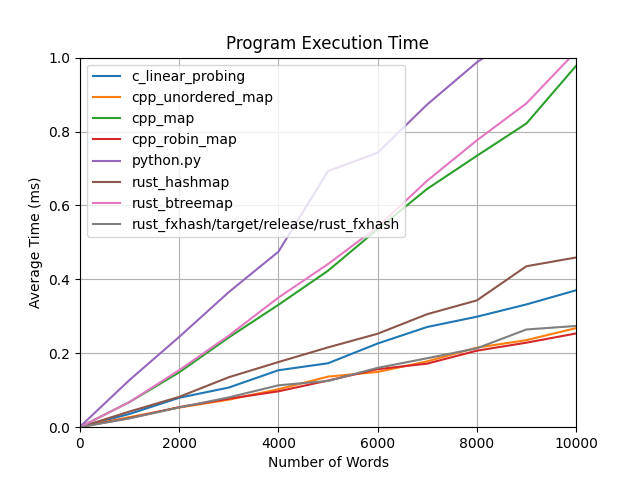
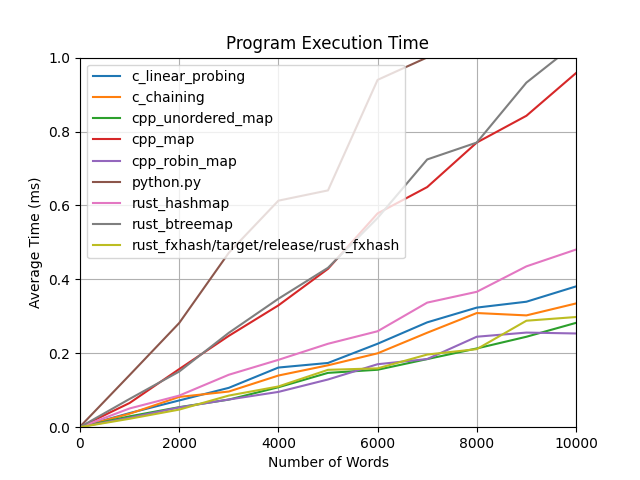
Add chaining test in C

diff --git a/c_chaining.c b/c_chaining.c
@@ -1,0 +1,226 @@
+#define _POSIX_C_SOURCE 200809L // For getline
+#include <stdio.h>
+#include <stdlib.h>
+#include <string.h>
+#include <time.h>
+
+// http://www.cse.yorku.ca/~oz/hash.html
+unsigned long djb2(const unsigned char *str)
+{
+	unsigned long hash = 5381;
+	int c;
+
+	while (c = *str++)
+		hash = ((hash << 5) + hash) + c; /* hash * 33 + c */
+
+	return hash;
+}
+
+typedef struct Entry Entry;
+
+struct Entry {
+	const char* k;
+	int v;
+	struct Entry* next;
+};
+
+typedef struct {
+	Entry* entries;
+	size_t size;
+	size_t count;
+} HashMap;
+
+HashMap HashMap_new(size_t size);
+Entry* HashMap_get(HashMap* hm, const char* k);
+void HashMap_rehash(HashMap* hm);
+void HashMap_insert(HashMap* hm, const char* k, int v);
+Entry* HashMap_get_or_default(HashMap* hm, const char* k, int d);
+
+HashMap HashMap_new(size_t size) {
+	HashMap hm = {0};
+	hm.entries = calloc(size, sizeof(Entry));
+	hm.size = size;
+	return hm;
+}
+
+Entry* HashMap_get(HashMap* hm, const char* k) {
+	if (hm->entries == NULL) {
+		return NULL;
+	}
+
+	size_t h = djb2(k) % hm->size;
+	Entry* e = &hm->entries[h];
+	while (e != NULL && strcmp(e->k, k) != 0) {
+		e = e->next;
+	}
+
+	return e;
+}
+
+#define DEFAULT_SIZE 16
+#define LOAD_FACTOR 0.75f
+
+void HashMap_rehash(HashMap* hm) {
+	//printf("Rehash %ld %ld %f\n", hm->count, hm->size, (float)hm->count / hm->size);
+
+	HashMap rehash = HashMap_new(hm->size * 2);
+
+	for (int i = 0; i < hm->size; i++) {
+		Entry* e = &hm->entries[i];
+		while (e != NULL) {
+			if (e->k != NULL) {
+				HashMap_insert(&rehash, e->k, e->v);
+			}
+			e = e->next;
+		}
+	}
+
+	free(hm->entries);
+	*hm = rehash;
+}
+
+void HashMap_insert(HashMap* hm, const char* k, int v) {
+	//printf("Insert %s %d\n", k, v);
+
+	if (hm->entries == NULL) {
+		hm->entries = calloc(DEFAULT_SIZE, sizeof(Entry));
+		hm->size = DEFAULT_SIZE;
+		hm->count = 0;
+	}
+
+	if (k == NULL) {
+		printf("Null key\n");
+		return;
+	}
+
+	if ((float)hm->count / hm->size > LOAD_FACTOR) {
+		HashMap_rehash(hm);
+	}
+
+	size_t h = djb2(k) % hm->size;
+	Entry* e = &hm->entries[h];
+	if (e->k != NULL) {
+		while (1) {
+			if (strcmp(e->k, k) == 0) {
+				return; // No duplicates
+			}
+			if (e->next == NULL) {
+				e->next = calloc(1, sizeof(Entry));
+				e = e->next;
+				break;
+			}
+			e = e->next;
+		}
+	}
+
+	e->k = k;
+	e->v = v;
+
+	hm->count++;
+}
+
+Entry* HashMap_get_or_default(HashMap* hm, const char* k, int d) {
+	//printf("Insert %s %d\n", k, v);
+
+	if (hm->entries == NULL) {
+		hm->entries = calloc(DEFAULT_SIZE, sizeof(Entry));
+		hm->size = DEFAULT_SIZE;
+		hm->count = 0;
+	}
+
+	if (k == NULL) {
+		printf("Null key\n");
+		return NULL;
+	}
+
+	if ((float)hm->count / hm->size > LOAD_FACTOR) {
+		HashMap_rehash(hm);
+	}
+
+	size_t h = djb2(k) % hm->size;
+	Entry* e = &hm->entries[h];
+	if (e->k != NULL) {
+		while (1) {
+			if (strcmp(e->k, k) == 0) {
+				return e;
+			}
+			if (e->next == NULL) {
+				e->next = calloc(1, sizeof(Entry));
+				e = e->next;
+				break;
+			}
+			e = e->next;
+		}
+	}
+
+	e->k = k;
+	e->v = d;
+
+	hm->count++;
+
+	return e;
+}
+
+// Make me a function to get a list of lines from a file
+// Copilot generated this
+char** getLinesFromFile(const char* filename, size_t* lineCount) {
+	FILE* file = fopen(filename, "r");
+	if (file == NULL) {
+		perror("fopen");
+		exit(EXIT_FAILURE);
+	}
+
+	char** lines = NULL;
+	char* line = NULL;
+	size_t n = 0;
+	size_t count = 0;
+
+	while (getline(&line, &n, file) != -1) {
+		lines = realloc(lines, (count + 1) * sizeof(char*));
+		*strchr(line, '\n') = '\0'; // Remove newline
+		lines[count] = strdup(line);
+		count++;
+	}
+
+	free(line);
+	fclose(file);
+
+	*lineCount = count;
+	return lines;
+}
+
+int main() {
+	size_t lineCount;
+	char** lines = getLinesFromFile("words.txt", &lineCount);
+
+	clock_t start = clock();
+
+	HashMap freq = {0};
+
+	for (int i = 0; i < lineCount; i++) {
+		char* line = lines[i];
+
+		Entry* e = HashMap_get_or_default(&freq, line, 0);
+		e->v++;
+	}
+
+	clock_t end = clock();
+	double cpu_time_used = ((double) (end - start)) / CLOCKS_PER_SEC;
+	printf("%f\n", cpu_time_used);
+
+	// for (int i = 0; i < freq.size; i++) {
+	// 	Entry* e = &freq.entries[i];
+	// 	while (e != NULL) {
+	// 		if (e->k != NULL) {
+	// 			printf("%s %d\n", e->k, e->v);
+	// 			free(e->k);
+	// 		}
+	// 		e = e->next;
+	// 	}
+	// }
+
+	free(lines);
+	free(freq.entries);
+
+	return 0;
+}

diff --git a/runner.py b/runner.py
@@ -33,6 +33,7 @@ def testprog(program_name):
 
 times = {
 	"c_linear_probing": [],
+	"c_chaining": [],
 	"cpp_unordered_map": [],
 	"cpp_map": [],
 	"cpp_robin_map": [],
